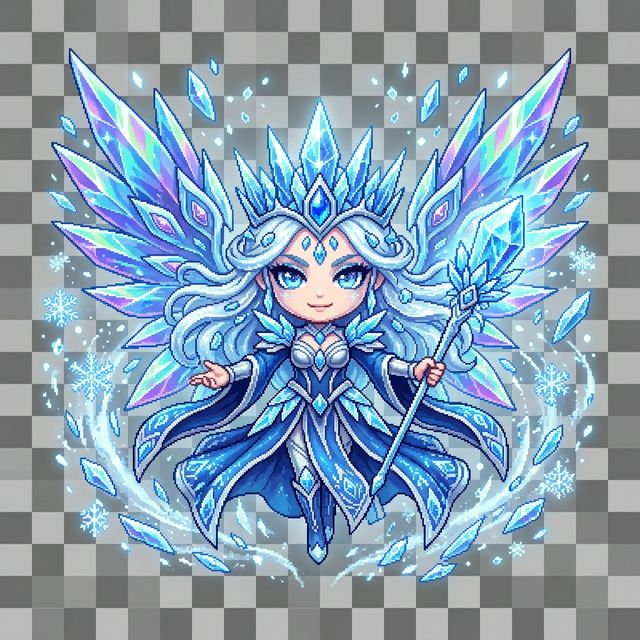
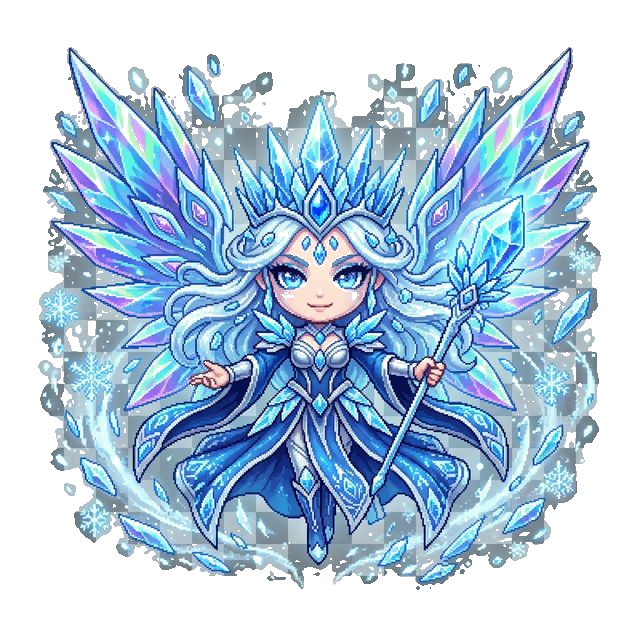
fix: remove checkered bg from fairy sprites, clickable zoom evolutions, remove grey effect

diff --git a/src/app/cooking/profile/page.tsx b/src/app/cooking/profile/page.tsx
@@ -58,6 +58,9 @@ export default function ProfilePage() {
     // Toast state
     const [showToast, setShowToast] = useState(false);
 
+    // Fairy zoom state
+    const [zoomedFairy, setZoomedFairy] = useState<{ src: string; name: string; tierLabel: string } | null>(null);
+
     // Only seed form state ONCE on initial mount (not on every user change)
     useEffect(() => {
         setTimeout(() => {
@@ -396,12 +399,19 @@ export default function ProfilePage() {
                                     {isSelected && (
                                         <div className="ck-fairy-evolutions">
                                             {[1, 2, 3].map(tier => {
-                                                const currentTier = getFairyTier(getFairyLevel(user.fairyXp || 0));
-                                                const isUnlocked = tier <= currentTier;
+                                                const tierLabel = tier === 1 ? 'Base' : tier === 2 ? 'Évo.' : 'Ultime';
+                                                const imgSrc = `/cooking/fairies/${fairy.id}_fairy_${tier}.png`;
                                                 return (
-                                                    <div key={tier} className={`ck-fairy-evo-slot${isUnlocked ? ' unlocked' : ' locked'}`}>
+                                                    <div 
+                                                        key={tier} 
+                                                        className="ck-fairy-evo-slot unlocked"
+                                                        onClick={(e) => {
+                                                            e.stopPropagation();
+                                                            setZoomedFairy({ src: imgSrc, name: fairy.name, tierLabel });
+                                                        }}
+                                                    >
                                                         <Image
-                                                            src={`/cooking/fairies/${fairy.id}_fairy_${tier}.png`}
+                                                            src={imgSrc}
                                                             alt={`${fairy.name} Tier ${tier}`}
                                                             width={48}
                                                             height={48}
@@ -409,9 +419,8 @@ export default function ProfilePage() {
                                                             className="ck-fairy-evo-img"
                                                         />
                                                         <span className="ck-fairy-evo-label">
-                                                            {tier === 1 ? 'Base' : tier === 2 ? 'Évo.' : 'Ultime'}
+                                                            {tierLabel}
                                                         </span>
-                                                        {!isUnlocked && <span className="ck-fairy-evo-lock">🔒</span>}
                                                     </div>
                                                 );
                                             })}
@@ -501,6 +510,26 @@ export default function ProfilePage() {
                 <div className="ck-toast">
                     <span className="ck-toast-icon">✅</span>
                     Profil sauvegardé avec succès !
+                </div>
+            )}
+
+            {/* Fairy Zoom Overlay */}
+            {zoomedFairy && (
+                <div 
+                    className="ck-fairy-zoom-overlay"
+                    onClick={() => setZoomedFairy(null)}
+                >
+                    <div className="ck-fairy-zoom-img">
+                        <Image
+                            src={zoomedFairy.src}
+                            alt={zoomedFairy.name}
+                            fill
+                            unoptimized
+                            style={{ objectFit: 'contain' }}
+                        />
+                    </div>
+                    <div className="ck-fairy-zoom-label">{zoomedFairy.name}</div>
+                    <div className="ck-fairy-zoom-tier">{zoomedFairy.tierLabel}</div>
                 </div>
             )}
 

diff --git a/src/app/cooking/cooking.css b/src/app/cooking/cooking.css
@@ -960,10 +960,15 @@
   flex-direction: column;
   align-items: center;
   position: relative;
+  cursor: pointer;
+  transition: transform 0.2s ease;
+}
+.ck-fairy-evo-slot:hover {
+  transform: scale(1.15);
 }
 .ck-fairy-evo-slot.locked .ck-fairy-evo-img {
-  filter: grayscale(100%) brightness(0.7);
-  opacity: 0.4;
+  filter: none;
+  opacity: 1;
 }
 .ck-fairy-evo-slot.unlocked .ck-fairy-evo-img {
   filter: none;
@@ -987,6 +992,43 @@
   left: 50%;
   transform: translate(-50%, -50%);
   font-size: 1rem;
+}
+
+/* ── Fairy Zoom Overlay ── */
+.ck-fairy-zoom-overlay {
+  position: fixed;
+  inset: 0;
+  z-index: 9999;
+  background: rgba(0, 0, 0, 0.6);
+  -webkit-backdrop-filter: blur(12px);
+  backdrop-filter: blur(12px);
+  display: flex;
+  align-items: center;
+  justify-content: center;
+  flex-direction: column;
+  gap: 1rem;
+  cursor: pointer;
+  animation: ckFadeUp 0.3s ease-out;
+}
+.ck-fairy-zoom-img {
+  width: 280px;
+  height: 280px;
+  position: relative;
+  animation: ckPop 0.4s cubic-bezier(0.34, 1.56, 0.64, 1) both;
+  filter: drop-shadow(0 8px 32px rgba(245, 138, 61, 0.4));
+}
+.ck-fairy-zoom-label {
+  color: white;
+  font-weight: 800;
+  font-size: 1.2rem;
+  text-shadow: 0 2px 8px rgba(0,0,0,0.5);
+  animation: ckFadeUp 0.4s ease-out 0.1s both;
+}
+.ck-fairy-zoom-tier {
+  color: rgba(255,255,255,0.7);
+  font-size: 0.85rem;
+  font-weight: 600;
+  animation: ckFadeUp 0.4s ease-out 0.2s both;
 }
 
 /* ── Fairy card selected variants ── */
